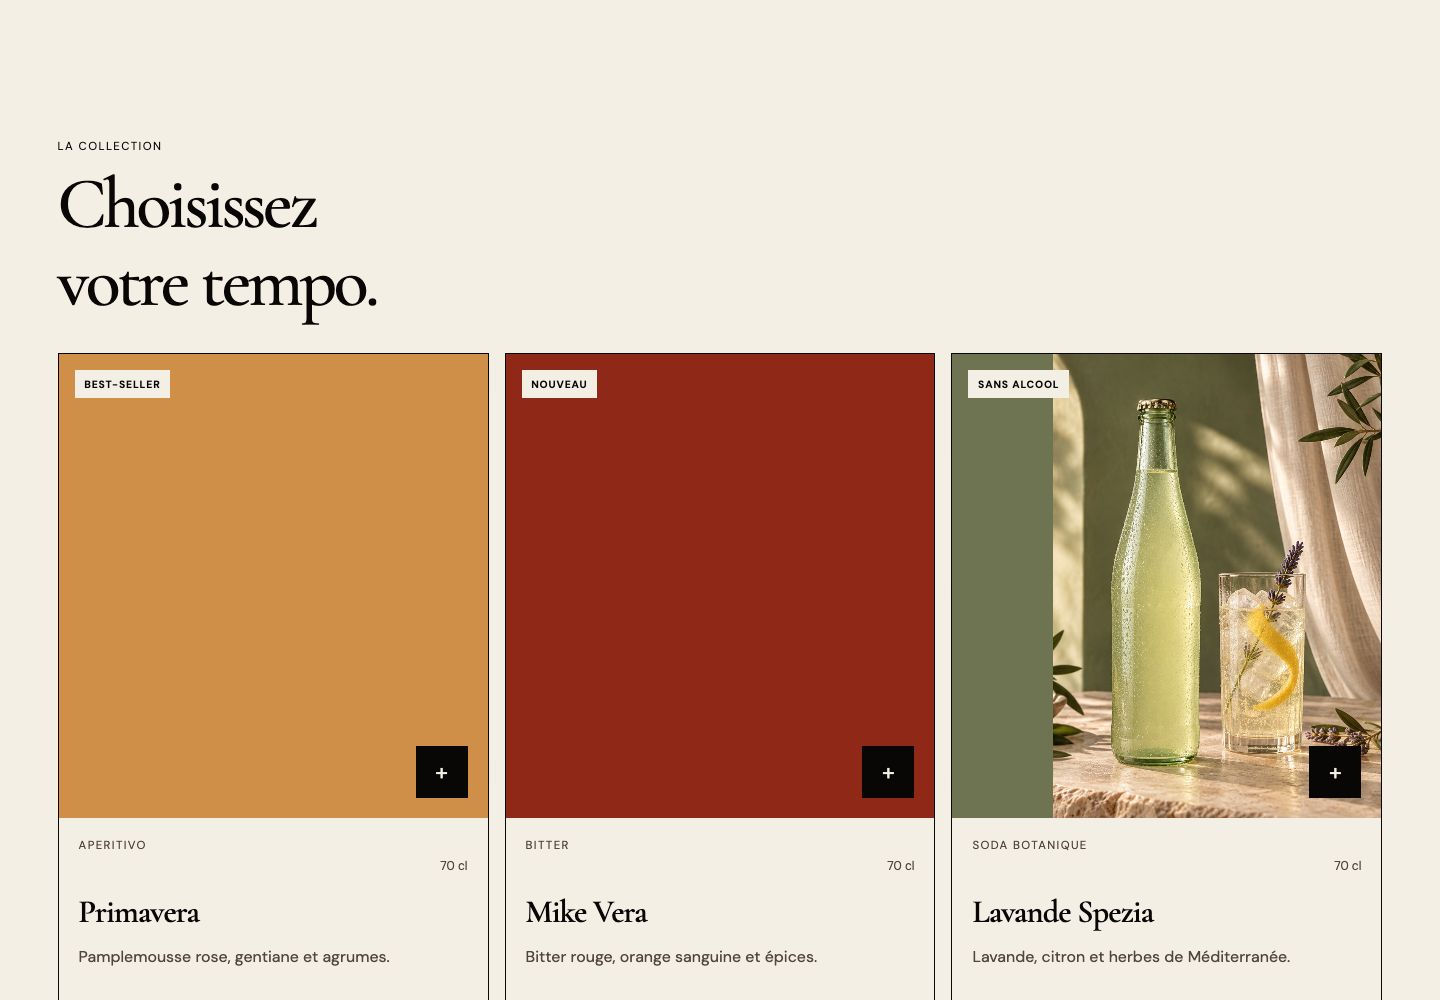
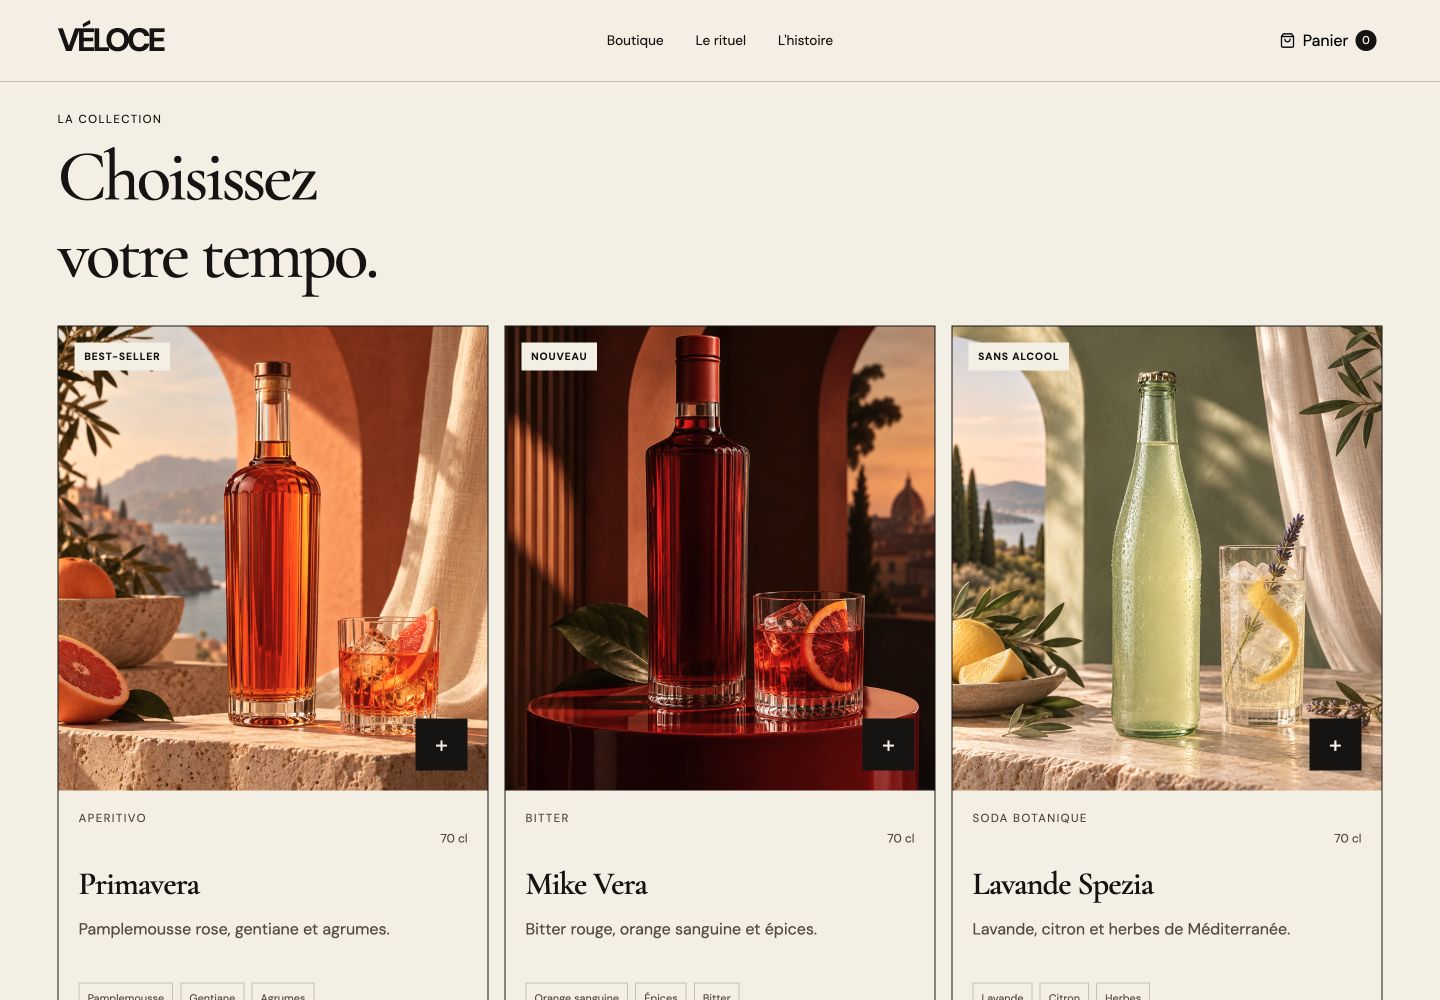
Fix missing product images in Veloce showcase capture

diff --git a/QA.md b/QA.md
@@ -25,3 +25,9 @@ Cette recette simule les dimensions des appareils ; elle ne remplace pas un essa
 - Les deux nouveaux sites ont été contrôlés en 320, 390, 768 et 1440 px sans débordement horizontal ; sept tests d’architecture et de comportement passent dans leurs dépôts.
 - Carrousels des deux nouvelles fiches : format desktop/mobile, seconde capture, dimensions et chargement des images, ouverture et fermeture de l’aperçu vérifiés. Le filtre réservation conserve trois modèles dont Les Échappées ; le catalogue complet en affiche huit.
 - `npm run verify` et `DEPLOY_TARGET=github-pages npm run verify` passent : 7 tests catalogue/consentement et 3 tests du build par cible, HTML prérendu et données structurées contenant les huit démos.
+
+## Correction de la capture Véloce — 20 octobre 2026
+
+- `03-desktop-detail.jpg` renouvelée depuis le template 03 public, en 1440 × 1000 : les deux images absentes de Primavera et Mike Vera sont désormais présentes.
+- Avant capture, contrôle des quatre images de la page : `complete === true` et dimensions naturelles non nulles ; inspection visuelle des trois photographies de la collection.
+- Les trois autres captures du template 03 ont été inspectées et ne présentent pas ce défaut.
